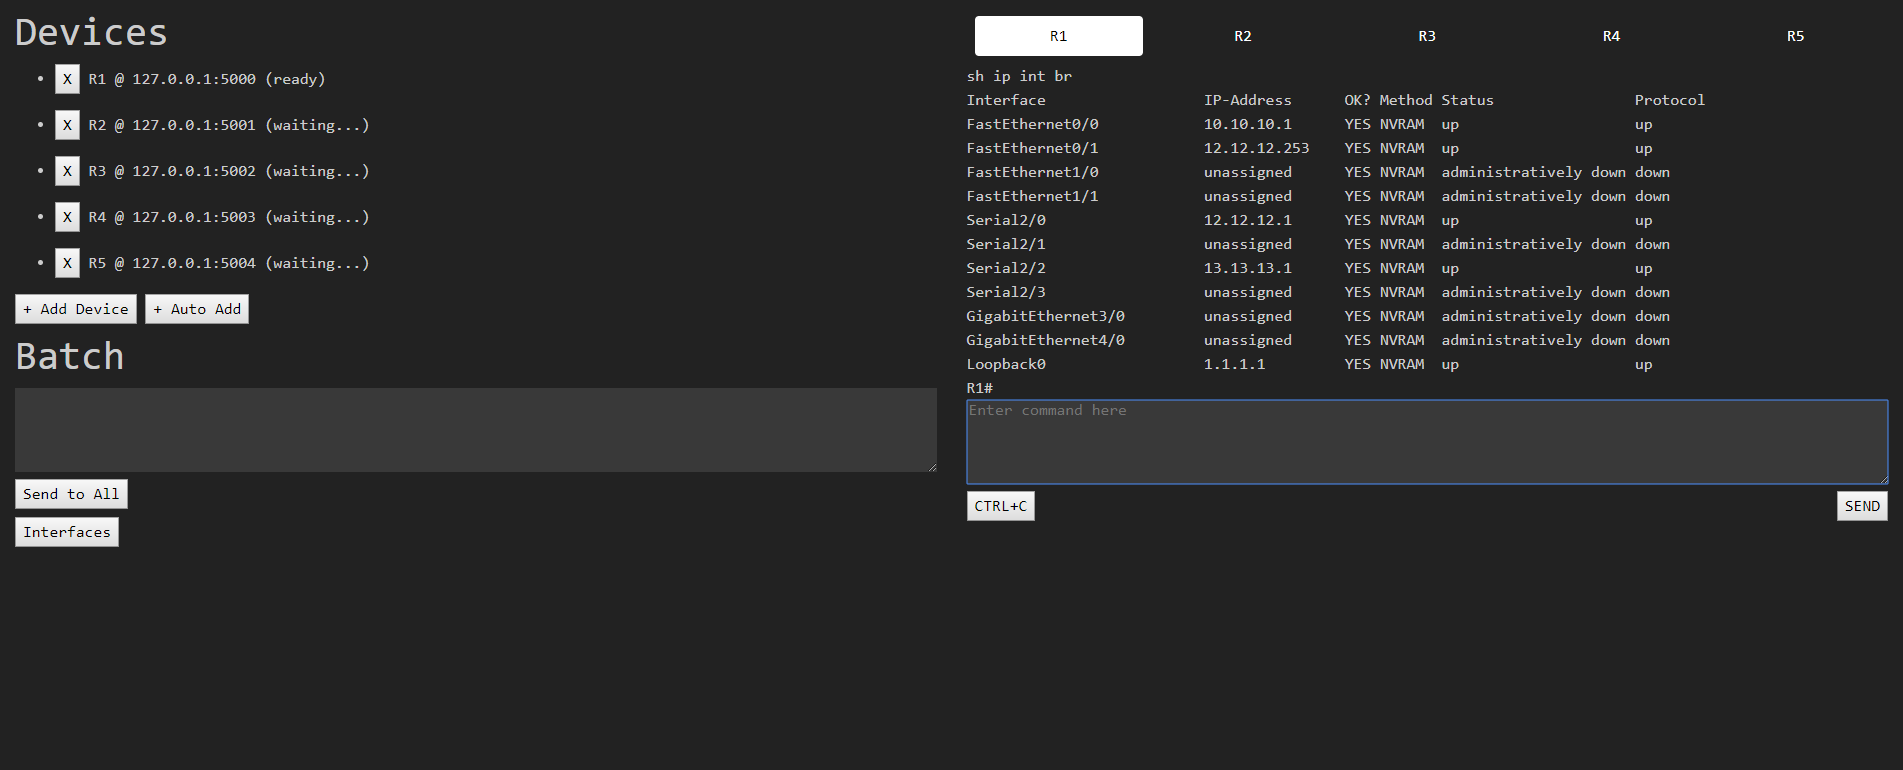
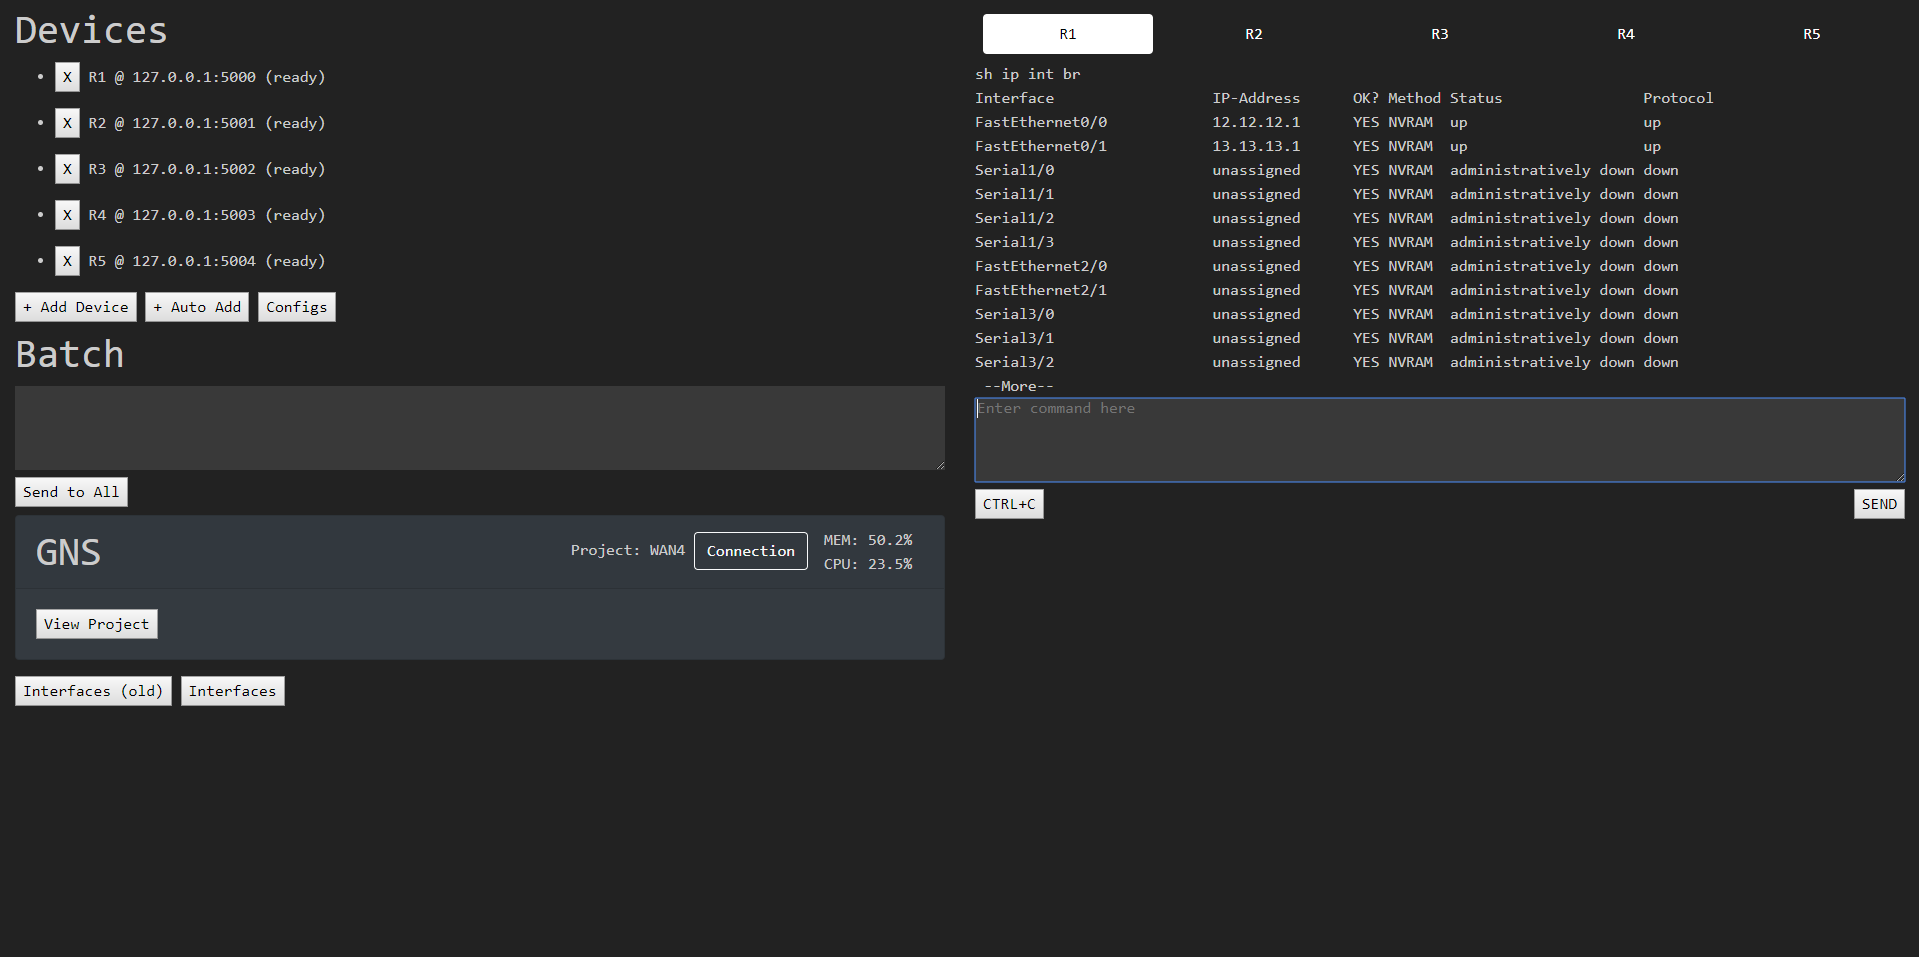
new screenshot & readme.

diff --git a/README.md b/README.md
@@ -4,3 +4,8 @@ Telnet client for sendig batch commands to (cisco) routers written in Vue.js and
 **EXPERIMENTAL**: Should not be used in Production.
 
 ![Screenshot](Screenshot.png?raw=true "Screenshot")
+
+## Features
+* Connect to GNS.
+* Load running configs.
+* View your GNS project with running-config data at one place.
